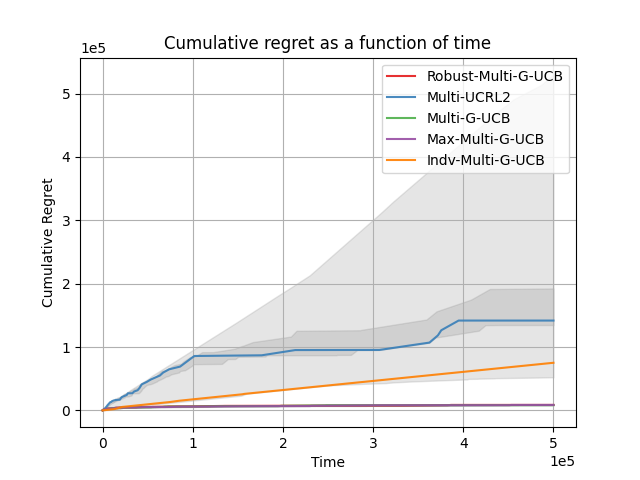
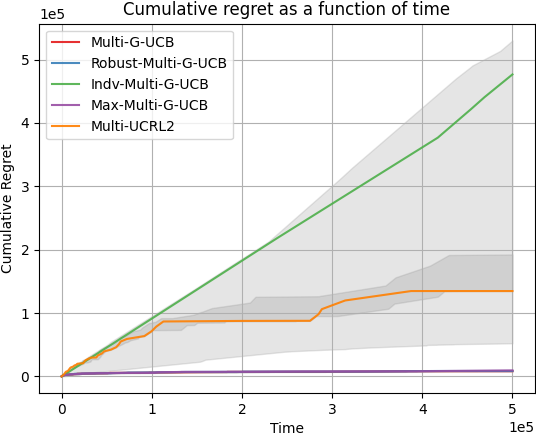
Revised results with seeding

diff --git a/plotting/main.py b/plotting/main.py
@@ -11,7 +11,7 @@ def load_params():
     parser.add_argument(
         "--data_folder",
         # default="C:/Users/phevo/Documents/Harvard/Research/RL/Multi-G-UCB/v2/output/final_tests/output/baseline/log",
-        # default="C:/Users/phevo/Documents/Harvard/Research/RL/Multi-G-UCB/v2/output/final_tests/output/noise",
+        # default="C:/Users/phevo/Documents/Harvard/Research/RL/Multi-G-UCB/v2/output/final_tests/output/failures",
         default="C:/Users/phevo/Documents/Harvard/Research/RL/Multi-G-UCB/v2/output/log",
         type=str,
     )
@@ -19,7 +19,7 @@ def load_params():
         "--type",
         type=str,
         default="comparison",
-        choices=["comparison", "noise"],
+        choices=["comparison", "failures"],
         help="Type of plot to generate",
     )
     parser.add_argument(
@@ -41,9 +41,8 @@ def main():
         if f.endswith(".csv") and "intervals" not in f
     ]
 
-    palette = sns.color_palette("Set1", 5)
-
-    for i, f in enumerate(reversed(csv_files)):
+    palette = sns.color_palette("Set1", len(csv_files))
+    for i, f in enumerate(csv_files):
         regrets = np.loadtxt(
             f"{params.data_folder}/{f}", delimiter=",", dtype=float, ndmin=2
         )
@@ -57,9 +56,11 @@ def main():
         T = regrets.shape[1]
         label = f[:-4]
         label = (
-            " ".join([word.capitalize() for word in label.split("_")])
-            if params.type == "noise"
-            else label
+            " ".join(
+                [word.capitalize() for word in label[1:].split("_")]
+            )  # [1:] is a hack for ordering
+            if params.type == "failures"
+            else label[1:]  # [1:] is a hack for ordering
         )
         plt.plot(
             range(T),
@@ -85,10 +86,12 @@ def main():
         plt.xlim(0, 10**5)
         plt.ylim(0, 10**4)
 
-    plt.savefig(
-        f"{params.data_folder}/cumulative_regret{'_zoom' if params.zoom else ''}.png"
-    )
-    # plt.show()
+    if params.type == "comparison":
+        plt.savefig(
+            f"{params.data_folder}/cumulative_regret{'_zoom' if params.zoom else ''}.png"
+        )
+    else:
+        plt.show()
 
 
 if __name__ == "__main__":

diff --git a/v2/main.py b/v2/main.py
@@ -63,6 +63,7 @@ def load_params():
         "--delta", type=float, default=0.01
     )  # confidence parameter of UCRL2
     parser.add_argument("--output_flag", type=str, default="")
+    parser.add_argument("--seed", type=int, default=0)
     parser.add_argument("options", default=None, nargs=argparse.REMAINDER)
     params = parser.parse_args()
 
@@ -127,6 +128,9 @@ def load_params():
         params.agent_move_beta = params.M * [None]
 
     params.alg_names = [alg_names[type] for type in params.alg_types]
+
+    if params.seed:
+        random.seed(params.seed)
     return params
 
 
